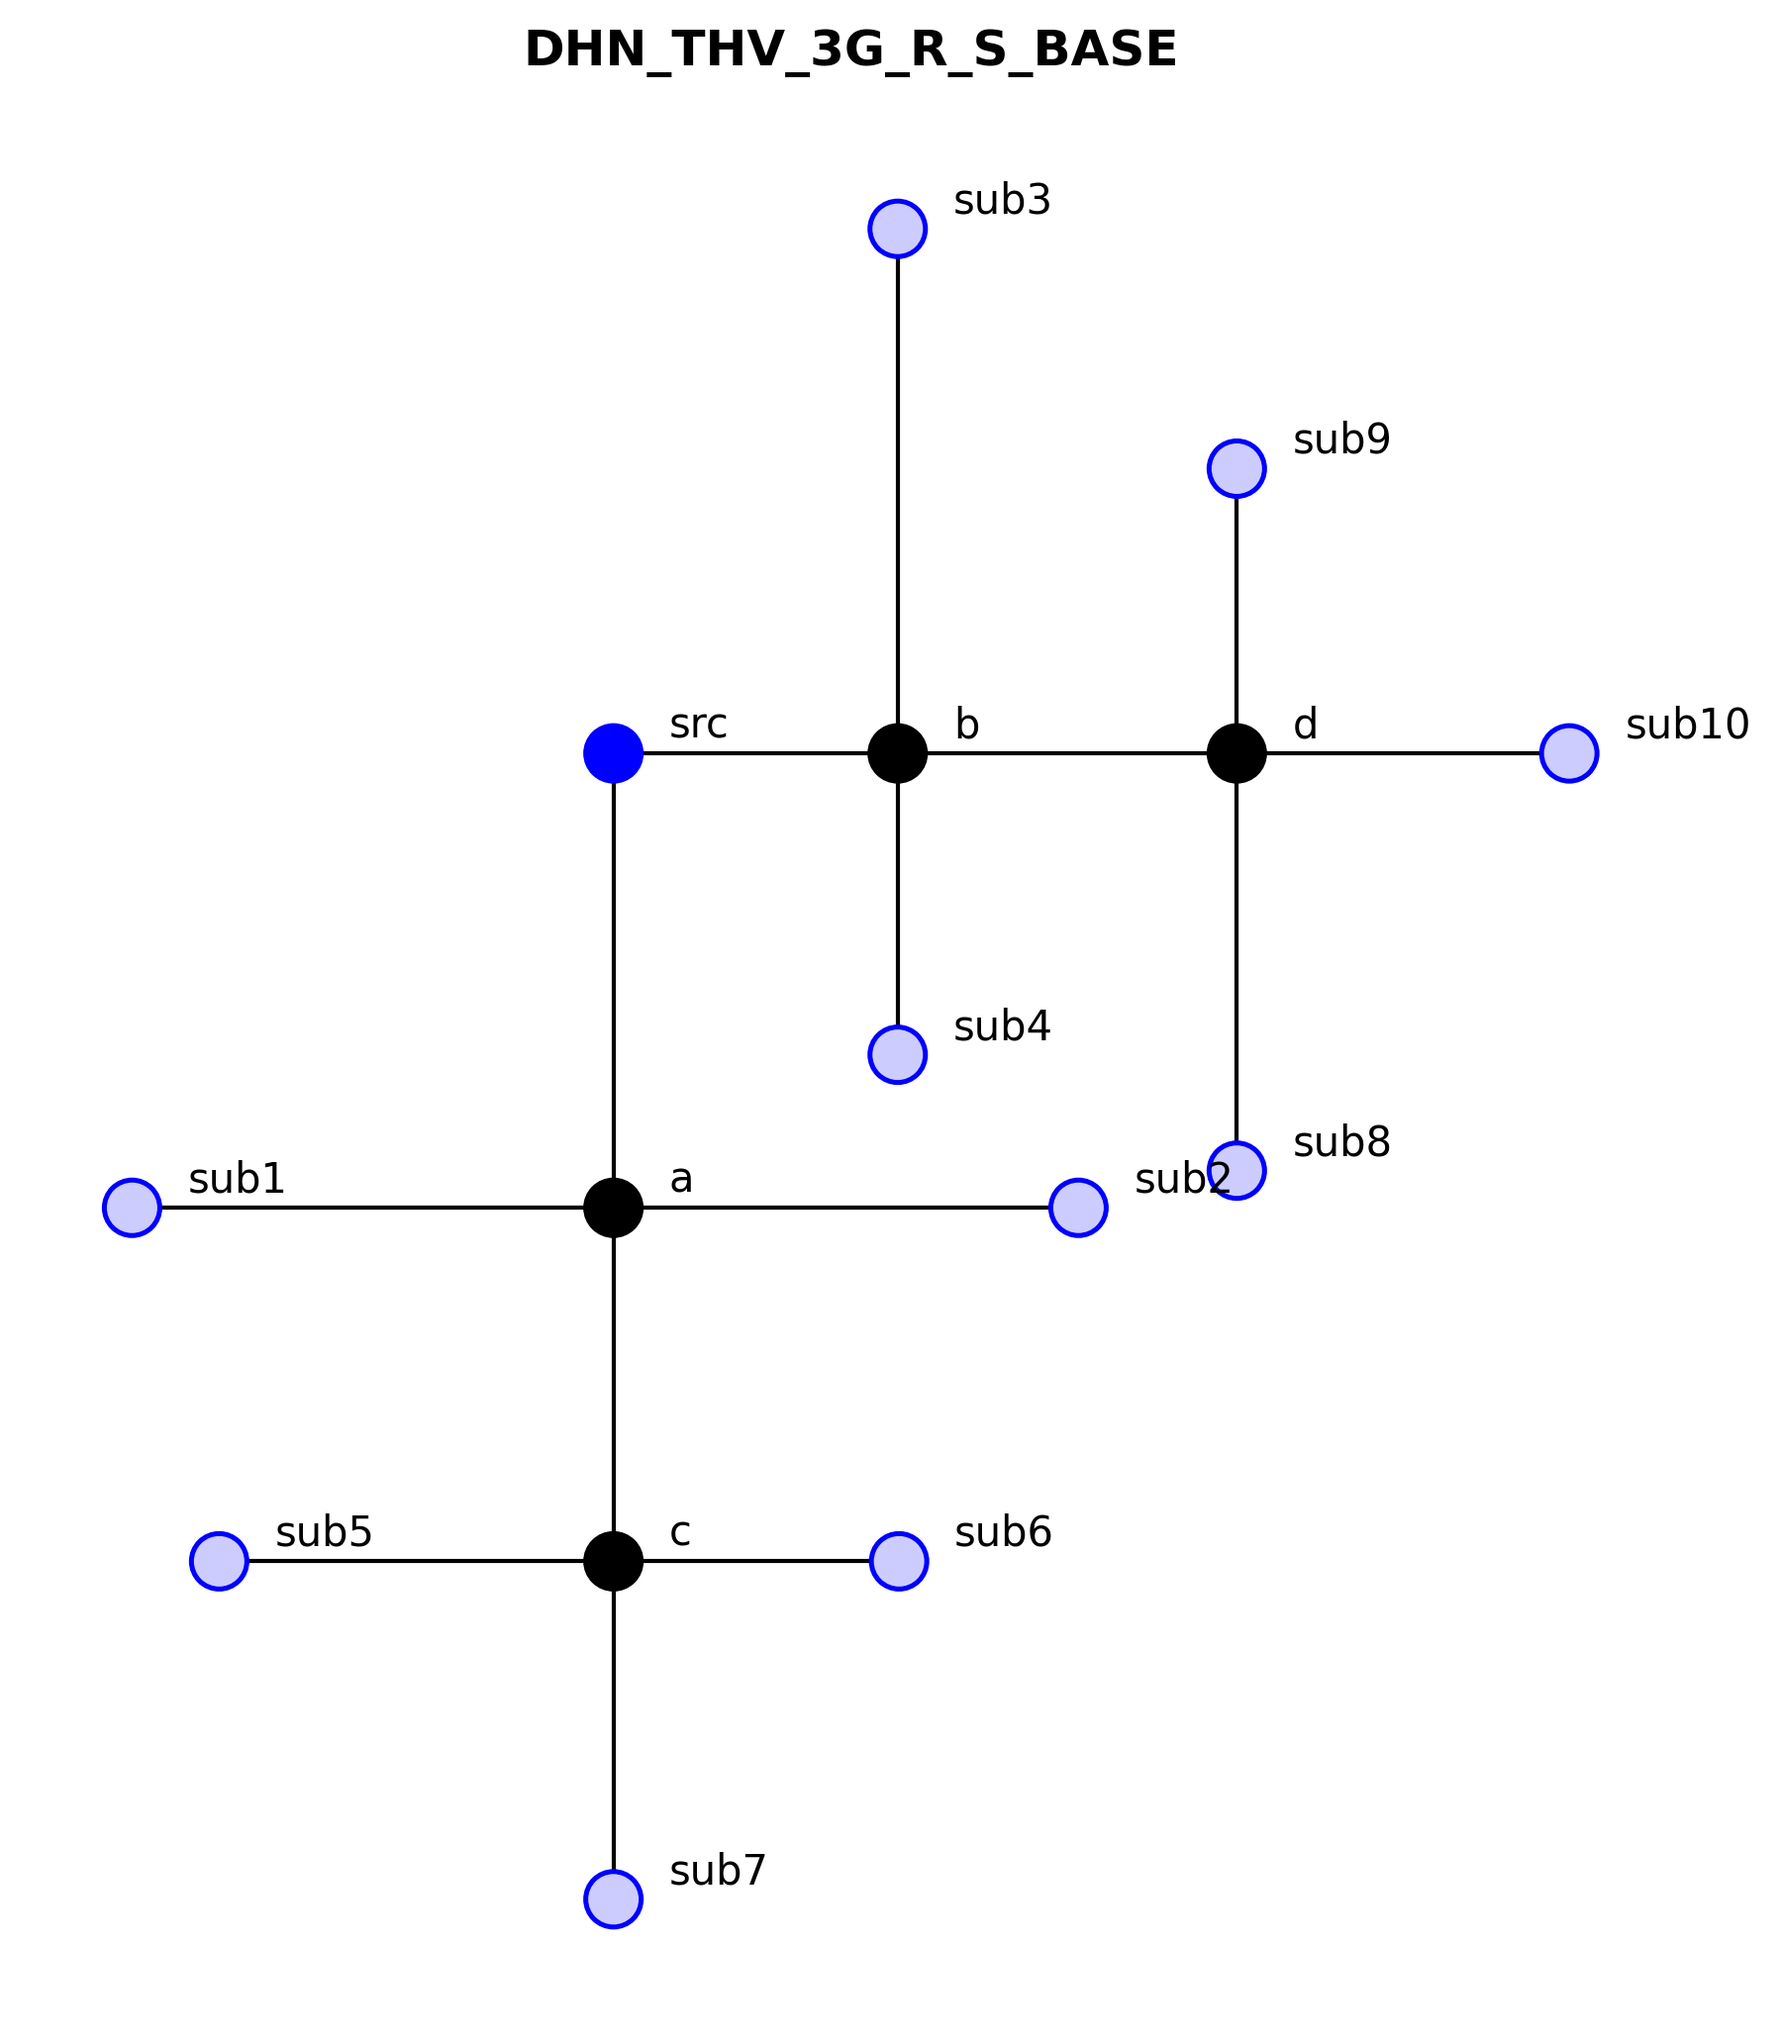
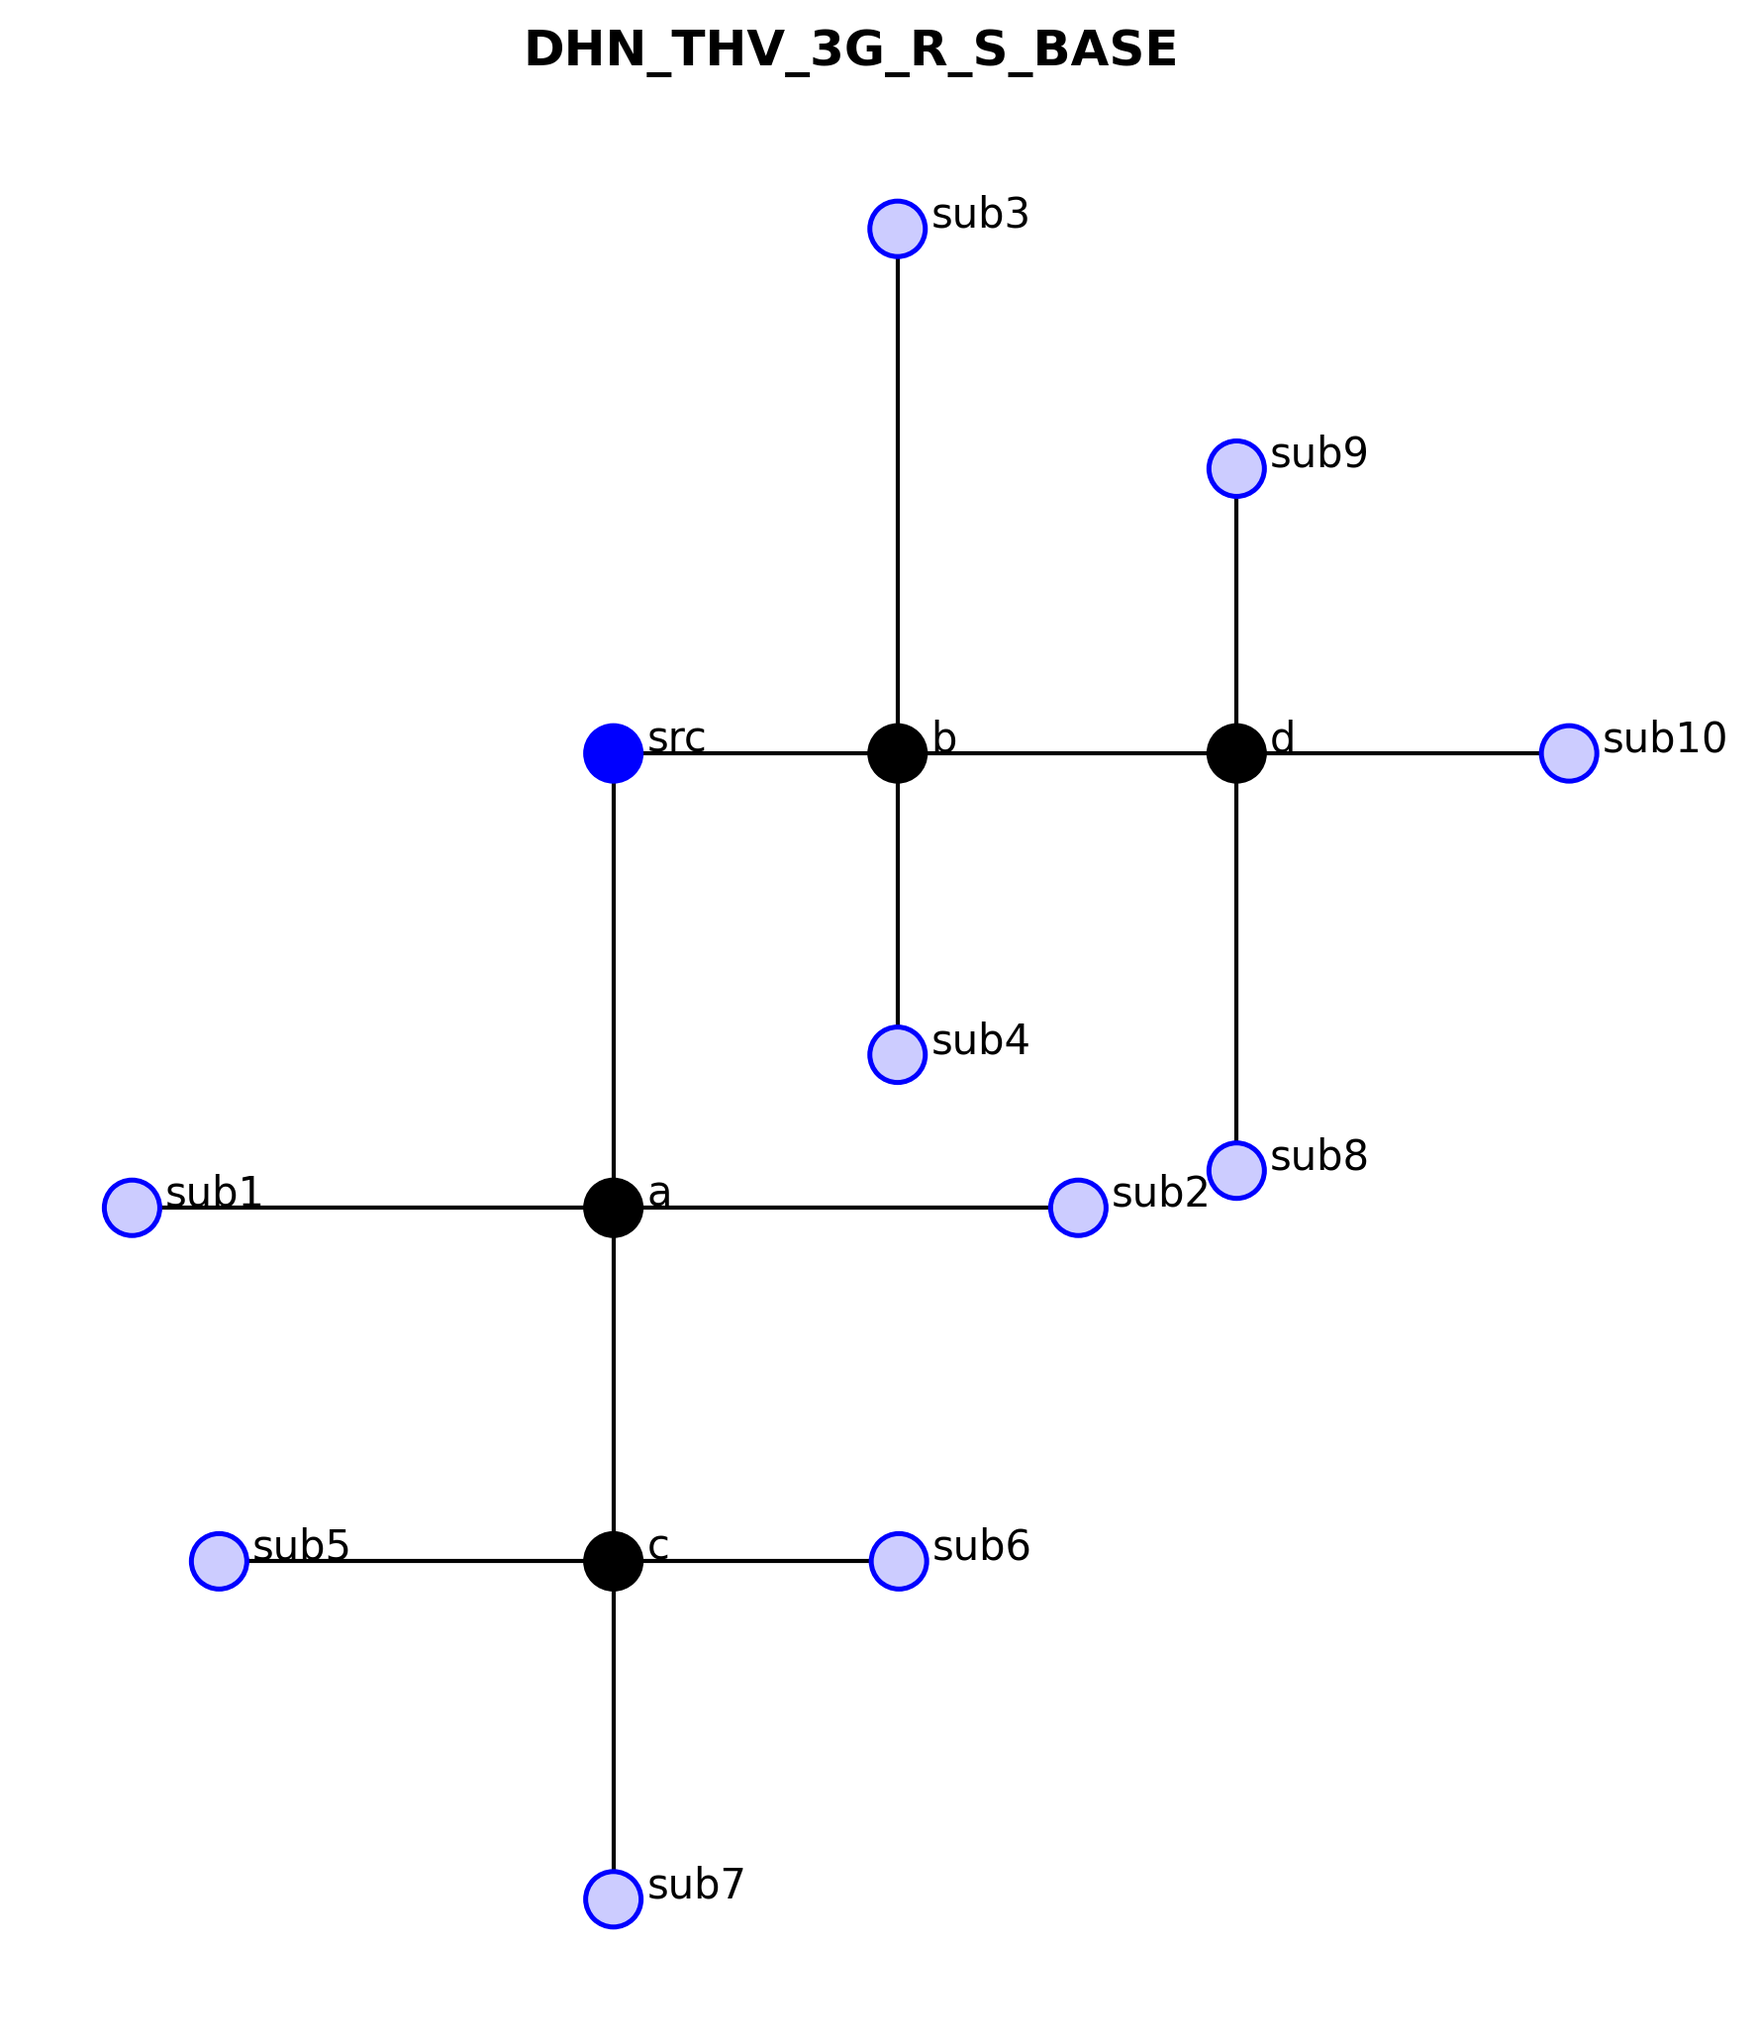
Archetypes implementation

diff --git a/dhn_benchmark/plotting.py b/dhn_benchmark/plotting.py
@@ -78,7 +78,7 @@ def plot_topology(nodes, edges, title="DHN_Network",
         if label_offsets and nid in label_offsets:
             dx, dy, ha, va = label_offsets[nid]
         else:
-            dx, dy, ha, va = r + 10, 10, "left", "center"
+            dx, dy, ha, va = r + 2, 5, "left", "center"
         ax.text(
             x + dx, -y + dy, nid,
             ha=ha, va=va,

diff --git a/dhn_benchmark/networks/DHN_THV_3G_R_S.py b/dhn_benchmark/networks/DHN_THV_3G_R_S.py
@@ -360,7 +360,7 @@ print(f"  pipes.csv    → {len(PIPE_SIZING)*2} rows")
 fig, ax = plot_topology(
     NODES, EDGES,
     title="DHN_THV_3G_R_S_BASE",
-    show=False,
+    show=True,
 )
 plot_path = os.path.join(OUT_DIR, "topology.png")
 fig.savefig(plot_path, dpi=300, bbox_inches="tight")
